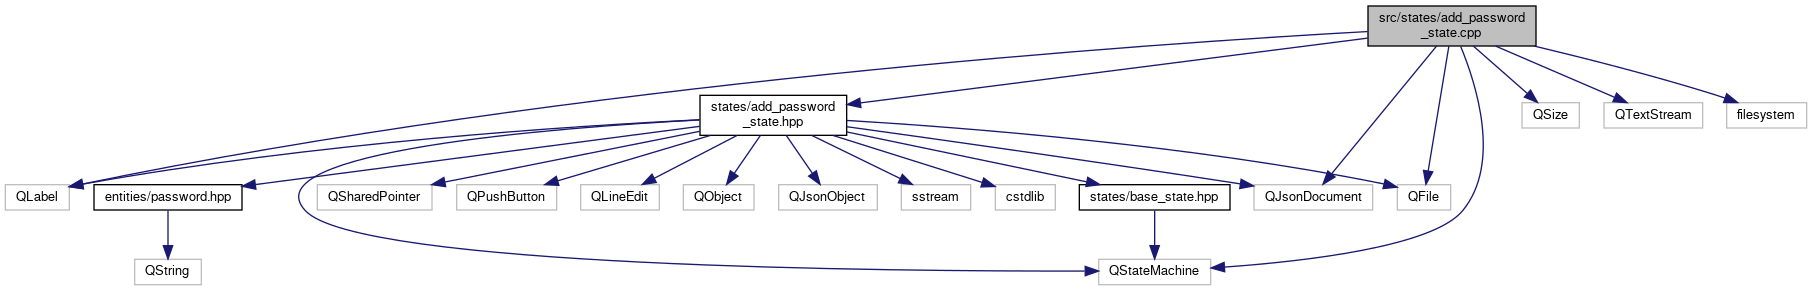
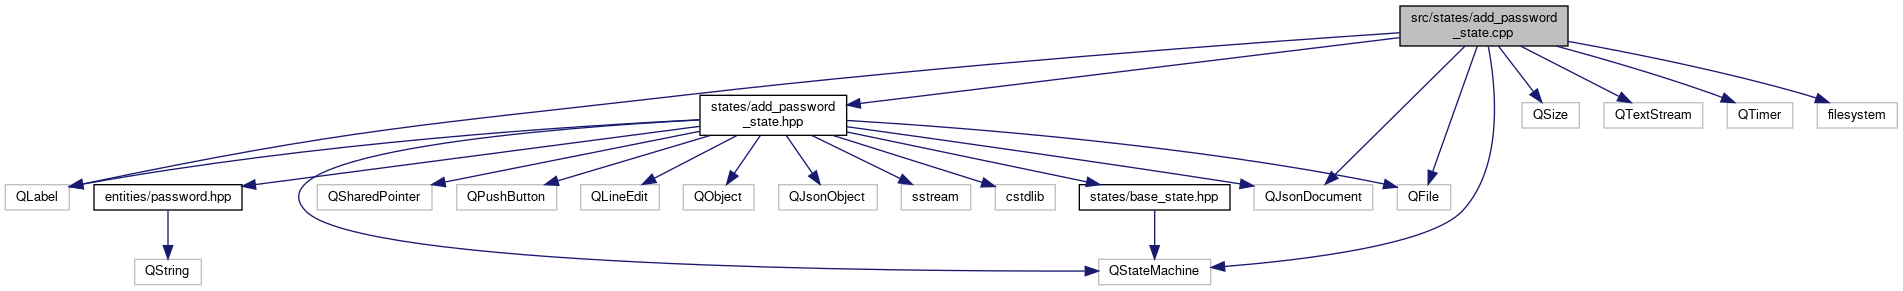
Update docs

diff --git a/docs/add__password__state_8hpp_source.html b/docs/add__password__state_8hpp_source.html
@@ -181,19 +181,19 @@ $(function() {
 <div class="ttc" id="aclasskmanager_1_1state_1_1AddPasswordState_html_a586e07e0faa24e6f28303532146c58ab"><div class="ttname"><a href="classkmanager_1_1state_1_1AddPasswordState.html#a586e07e0faa24e6f28303532146c58ab">kmanager::state::AddPasswordState::save_button</a></div><div class="ttdeci">QSharedPointer&lt; QPushButton &gt; save_button</div><div class="ttdef"><b>Definition:</b> add_password_state.hpp:78</div></div>
 <div class="ttc" id="aclasskmanager_1_1state_1_1AddPasswordState_html_a5a9a0308d6caafc6d6824210b32455c9"><div class="ttname"><a href="classkmanager_1_1state_1_1AddPasswordState.html#a5a9a0308d6caafc6d6824210b32455c9">kmanager::state::AddPasswordState::platform_website_textbox</a></div><div class="ttdeci">QSharedPointer&lt; QLineEdit &gt; platform_website_textbox</div><div class="ttdef"><b>Definition:</b> add_password_state.hpp:74</div></div>
 <div class="ttc" id="aclasskmanager_1_1state_1_1AddPasswordState_html_a633b4f72f0266cf92bf2dfff5ac1535c"><div class="ttname"><a href="classkmanager_1_1state_1_1AddPasswordState.html#a633b4f72f0266cf92bf2dfff5ac1535c">kmanager::state::AddPasswordState::password_textbox</a></div><div class="ttdeci">QSharedPointer&lt; QLineEdit &gt; password_textbox</div><div class="ttdef"><b>Definition:</b> add_password_state.hpp:76</div></div>
-<div class="ttc" id="aclasskmanager_1_1state_1_1AddPasswordState_html_a66f2fdfdef2c7abc9e8d6223c2f5490e"><div class="ttname"><a href="classkmanager_1_1state_1_1AddPasswordState.html#a66f2fdfdef2c7abc9e8d6223c2f5490e">kmanager::state::AddPasswordState::~AddPasswordState</a></div><div class="ttdeci">~AddPasswordState()</div><div class="ttdoc">Destruct a new AddPasswordState object.</div><div class="ttdef"><b>Definition:</b> add_password_state.cpp:57</div></div>
+<div class="ttc" id="aclasskmanager_1_1state_1_1AddPasswordState_html_a66f2fdfdef2c7abc9e8d6223c2f5490e"><div class="ttname"><a href="classkmanager_1_1state_1_1AddPasswordState.html#a66f2fdfdef2c7abc9e8d6223c2f5490e">kmanager::state::AddPasswordState::~AddPasswordState</a></div><div class="ttdeci">~AddPasswordState()</div><div class="ttdoc">Destruct a new AddPasswordState object.</div><div class="ttdef"><b>Definition:</b> add_password_state.cpp:58</div></div>
 <div class="ttc" id="aclasskmanager_1_1state_1_1AddPasswordState_html_a7428c16fbf06670ee344f4014e042d33"><div class="ttname"><a href="classkmanager_1_1state_1_1AddPasswordState.html#a7428c16fbf06670ee344f4014e042d33">kmanager::state::AddPasswordState::platform_website_label</a></div><div class="ttdeci">QSharedPointer&lt; QLabel &gt; platform_website_label</div><div class="ttdef"><b>Definition:</b> add_password_state.hpp:68</div></div>
 <div class="ttc" id="aclasskmanager_1_1state_1_1AddPasswordState_html_a9dd61d0704ed895e9033ae05d472b3db"><div class="ttname"><a href="classkmanager_1_1state_1_1AddPasswordState.html#a9dd61d0704ed895e9033ae05d472b3db">kmanager::state::AddPasswordState::note_label</a></div><div class="ttdeci">QSharedPointer&lt; QLabel &gt; note_label</div><div class="ttdef"><b>Definition:</b> add_password_state.hpp:71</div></div>
 <div class="ttc" id="aclasskmanager_1_1state_1_1AddPasswordState_html_ab1b1d854a8872ec0cdca0e1b8a5d10eb"><div class="ttname"><a href="classkmanager_1_1state_1_1AddPasswordState.html#ab1b1d854a8872ec0cdca0e1b8a5d10eb">kmanager::state::AddPasswordState::username_textbox</a></div><div class="ttdeci">QSharedPointer&lt; QLineEdit &gt; username_textbox</div><div class="ttdef"><b>Definition:</b> add_password_state.hpp:75</div></div>
 <div class="ttc" id="aclasskmanager_1_1state_1_1AddPasswordState_html_ab995f88b92a6ef41178885fabbeb73e2"><div class="ttname"><a href="classkmanager_1_1state_1_1AddPasswordState.html#ab995f88b92a6ef41178885fabbeb73e2">kmanager::state::AddPasswordState::host</a></div><div class="ttdeci">QWidget * host</div><div class="ttdef"><b>Definition:</b> add_password_state.hpp:81</div></div>
 <div class="ttc" id="aclasskmanager_1_1state_1_1AddPasswordState_html_ac081ce523faa8f5633b7c7b759634d23"><div class="ttname"><a href="classkmanager_1_1state_1_1AddPasswordState.html#ac081ce523faa8f5633b7c7b759634d23">kmanager::state::AddPasswordState::create_new_password_label</a></div><div class="ttdeci">QSharedPointer&lt; QLabel &gt; create_new_password_label</div><div class="ttdef"><b>Definition:</b> add_password_state.hpp:67</div></div>
-<div class="ttc" id="aclasskmanager_1_1state_1_1AddPasswordState_html_acd7d6f5cd91e40dd474e20bc1b836292"><div class="ttname"><a href="classkmanager_1_1state_1_1AddPasswordState.html#acd7d6f5cd91e40dd474e20bc1b836292">kmanager::state::AddPasswordState::AddPasswordState</a></div><div class="ttdeci">AddPasswordState(QWidget *host, QState *parent=nullptr)</div><div class="ttdoc">Construct a new AddPasswordState object.</div><div class="ttdef"><b>Definition:</b> add_password_state.cpp:39</div></div>
+<div class="ttc" id="aclasskmanager_1_1state_1_1AddPasswordState_html_acd7d6f5cd91e40dd474e20bc1b836292"><div class="ttname"><a href="classkmanager_1_1state_1_1AddPasswordState.html#acd7d6f5cd91e40dd474e20bc1b836292">kmanager::state::AddPasswordState::AddPasswordState</a></div><div class="ttdeci">AddPasswordState(QWidget *host, QState *parent=nullptr)</div><div class="ttdoc">Construct a new AddPasswordState object.</div><div class="ttdef"><b>Definition:</b> add_password_state.cpp:40</div></div>
 <div class="ttc" id="aclasskmanager_1_1state_1_1AddPasswordState_html_ad25bcbccc238870c010ac4390d8cedc3"><div class="ttname"><a href="classkmanager_1_1state_1_1AddPasswordState.html#ad25bcbccc238870c010ac4390d8cedc3">kmanager::state::AddPasswordState::error_label</a></div><div class="ttdeci">QSharedPointer&lt; QLabel &gt; error_label</div><div class="ttdef"><b>Definition:</b> add_password_state.hpp:72</div></div>
 <div class="ttc" id="aclasskmanager_1_1state_1_1AddPasswordState_html_ae87866915282ed6a4d830a19d738885b"><div class="ttname"><a href="classkmanager_1_1state_1_1AddPasswordState.html#ae87866915282ed6a4d830a19d738885b">kmanager::state::AddPasswordState::password_label</a></div><div class="ttdeci">QSharedPointer&lt; QLabel &gt; password_label</div><div class="ttdef"><b>Definition:</b> add_password_state.hpp:70</div></div>
 <div class="ttc" id="aclasskmanager_1_1state_1_1AddPasswordState_html_aeb003d62c5ef4344a088d42979d45489"><div class="ttname"><a href="classkmanager_1_1state_1_1AddPasswordState.html#aeb003d62c5ef4344a088d42979d45489">kmanager::state::AddPasswordState::note_textbox</a></div><div class="ttdeci">QSharedPointer&lt; QLineEdit &gt; note_textbox</div><div class="ttdef"><b>Definition:</b> add_password_state.hpp:77</div></div>
 <div class="ttc" id="aclasskmanager_1_1state_1_1AddPasswordState_html_afa1a061f88220a141be71ab139314b3a"><div class="ttname"><a href="classkmanager_1_1state_1_1AddPasswordState.html#afa1a061f88220a141be71ab139314b3a">kmanager::state::AddPasswordState::create_new_password_textbox</a></div><div class="ttdeci">QSharedPointer&lt; QLineEdit &gt; create_new_password_textbox</div><div class="ttdef"><b>Definition:</b> add_password_state.hpp:73</div></div>
 <div class="ttc" id="aclasskmanager_1_1state_1_1BaseState_html"><div class="ttname"><a href="classkmanager_1_1state_1_1BaseState.html">kmanager::state::BaseState</a></div><div class="ttdoc">Class used to construct the base state of the app.</div><div class="ttdef"><b>Definition:</b> base_state.hpp:34</div></div>
-<div class="ttc" id="anamespacekmanager_1_1state_html"><div class="ttname"><a href="namespacekmanager_1_1state.html">kmanager::state</a></div><div class="ttdef"><b>Definition:</b> add_password_state.cpp:29</div></div>
+<div class="ttc" id="anamespacekmanager_1_1state_html"><div class="ttname"><a href="namespacekmanager_1_1state.html">kmanager::state</a></div><div class="ttdef"><b>Definition:</b> add_password_state.cpp:30</div></div>
 <div class="ttc" id="apassword_8hpp_html"><div class="ttname"><a href="password_8hpp.html">password.hpp</a></div></div>
 </div><!-- fragment --></div><!-- contents -->
 <!-- start footer part -->

diff --git a/docs/menu__state_8hpp_source.html b/docs/menu__state_8hpp_source.html
@@ -157,7 +157,7 @@ $(function() {
 <div class="ttc" id="aclasskmanager_1_1state_1_1MenuState_html_ac151ed1bc44f165704d43e9c27b15fbf"><div class="ttname"><a href="classkmanager_1_1state_1_1MenuState.html#ac151ed1bc44f165704d43e9c27b15fbf">kmanager::state::MenuState::version</a></div><div class="ttdeci">QSharedPointer&lt; QLabel &gt; version</div><div class="ttdef"><b>Definition:</b> menu_state.hpp:57</div></div>
 <div class="ttc" id="aclasskmanager_1_1state_1_1MenuState_html_ac1540c1d34c4f1da8fba053e24da3a43"><div class="ttname"><a href="classkmanager_1_1state_1_1MenuState.html#ac1540c1d34c4f1da8fba053e24da3a43">kmanager::state::MenuState::options_button</a></div><div class="ttdeci">QSharedPointer&lt; QPushButton &gt; options_button</div><div class="ttdef"><b>Definition:</b> menu_state.hpp:55</div></div>
 <div class="ttc" id="aclasskmanager_1_1state_1_1MenuState_html_ac79c48cd901994aad40a684dd23fae11"><div class="ttname"><a href="classkmanager_1_1state_1_1MenuState.html#ac79c48cd901994aad40a684dd23fae11">kmanager::state::MenuState::p_manager_button</a></div><div class="ttdeci">QSharedPointer&lt; QPushButton &gt; p_manager_button</div><div class="ttdef"><b>Definition:</b> menu_state.hpp:52</div></div>
-<div class="ttc" id="anamespacekmanager_1_1state_html"><div class="ttname"><a href="namespacekmanager_1_1state.html">kmanager::state</a></div><div class="ttdef"><b>Definition:</b> add_password_state.cpp:29</div></div>
+<div class="ttc" id="anamespacekmanager_1_1state_html"><div class="ttname"><a href="namespacekmanager_1_1state.html">kmanager::state</a></div><div class="ttdef"><b>Definition:</b> add_password_state.cpp:30</div></div>
 </div><!-- fragment --></div><!-- contents -->
 <!-- start footer part -->
 <hr class="footer"/><address class="footer"><small>

diff --git a/docs/base__state_8hpp_source.html b/docs/base__state_8hpp_source.html
@@ -116,7 +116,7 @@ $(function() {
 <div class="ttc" id="aclasskmanager_1_1state_1_1BaseState_html_a76600c1525c5bcc3289945fc022bd6af"><div class="ttname"><a href="classkmanager_1_1state_1_1BaseState.html#a76600c1525c5bcc3289945fc022bd6af">kmanager::state::BaseState::addWidgets</a></div><div class="ttdeci">virtual void addWidgets()=0</div></div>
 <div class="ttc" id="aclasskmanager_1_1state_1_1BaseState_html_a96981741385b1a8ba6c5538df52ad343"><div class="ttname"><a href="classkmanager_1_1state_1_1BaseState.html#a96981741385b1a8ba6c5538df52ad343">kmanager::state::BaseState::~BaseState</a></div><div class="ttdeci">virtual ~BaseState()</div><div class="ttdoc">Destruct a new BaseState object.</div><div class="ttdef"><b>Definition:</b> base_state.cpp:43</div></div>
 <div class="ttc" id="aclasskmanager_1_1state_1_1BaseState_html_ac2cc6c321c133586de2af9c6ff35feae"><div class="ttname"><a href="classkmanager_1_1state_1_1BaseState.html#ac2cc6c321c133586de2af9c6ff35feae">kmanager::state::BaseState::BaseState</a></div><div class="ttdeci">BaseState(QState *parent=nullptr)</div><div class="ttdoc">Construct a new BaseState object.</div><div class="ttdef"><b>Definition:</b> base_state.cpp:31</div></div>
-<div class="ttc" id="anamespacekmanager_1_1state_html"><div class="ttname"><a href="namespacekmanager_1_1state.html">kmanager::state</a></div><div class="ttdef"><b>Definition:</b> add_password_state.cpp:29</div></div>
+<div class="ttc" id="anamespacekmanager_1_1state_html"><div class="ttname"><a href="namespacekmanager_1_1state.html">kmanager::state</a></div><div class="ttdef"><b>Definition:</b> add_password_state.cpp:30</div></div>
 </div><!-- fragment --></div><!-- contents -->
 <!-- start footer part -->
 <hr class="footer"/><address class="footer"><small>

diff --git a/docs/add__password__state_8cpp.html b/docs/add__password__state_8cpp.html
@@ -80,13 +80,14 @@ $(function() {
 <code>#include &lt;QJsonDocument&gt;</code><br />
 <code>#include &lt;QFile&gt;</code><br />
 <code>#include &lt;QTextStream&gt;</code><br />
+<code>#include &lt;QTimer&gt;</code><br />
 <code>#include &lt;filesystem&gt;</code><br />
 </div><div class="textblock"><div class="dynheader">
 Include dependency graph for add_password_state.cpp:</div>
 <div class="dyncontent">
 <div class="center"><img src="add__password__state_8cpp__incl.png" border="0" usemap="#asrc_2states_2add__password__state_8cpp" alt=""/></div>
 <map name="asrc_2states_2add__password__state_8cpp" id="asrc_2states_2add__password__state_8cpp">
-<area shape="rect" title=" " alt="" coords="1368,5,1536,47"/>
+<area shape="rect" title=" " alt="" coords="1400,5,1568,47"/>
 <area shape="rect" href="add__password__state_8hpp.html" title=" " alt="" coords="700,95,847,136"/>
 <area shape="rect" title=" " alt="" coords="1099,259,1211,285"/>
 <area shape="rect" title=" " alt="" coords="5,184,69,211"/>
@@ -94,7 +95,8 @@ Include dependency graph for add_password_state.cpp:</div>
 <area shape="rect" title=" " alt="" coords="1397,184,1451,211"/>
 <area shape="rect" title=" " alt="" coords="1522,102,1579,129"/>
 <area shape="rect" title=" " alt="" coords="1604,102,1703,129"/>
-<area shape="rect" title=" " alt="" coords="1727,102,1807,129"/>
+<area shape="rect" title=" " alt="" coords="1727,102,1793,129"/>
+<area shape="rect" title=" " alt="" coords="1817,102,1897,129"/>
 <area shape="rect" href="base__state_8hpp.html" title=" " alt="" coords="1079,184,1230,211"/>
 <area shape="rect" href="password_8hpp.html" title=" " alt="" coords="94,184,242,211"/>
 <area shape="rect" title=" " alt="" coords="317,184,432,211"/>

diff --git a/docs/password__manager__state_8hpp_source.html b/docs/password__manager__state_8hpp_source.html
@@ -177,7 +177,7 @@ $(function() {
 <div class="ttc" id="aclasskmanager_1_1state_1_1PasswordManagerState_html_aec5194b8010bdb80055ad0d5be57b7af"><div class="ttname"><a href="classkmanager_1_1state_1_1PasswordManagerState.html#aec5194b8010bdb80055ad0d5be57b7af">kmanager::state::PasswordManagerState::find_button</a></div><div class="ttdeci">QSharedPointer&lt; QPushButton &gt; find_button</div><div class="ttdef"><b>Definition:</b> password_manager_state.hpp:65</div></div>
 <div class="ttc" id="aclasskmanager_1_1state_1_1PasswordManagerState_html_aec532a88e773b944e17ba5ed890095b2"><div class="ttname"><a href="classkmanager_1_1state_1_1PasswordManagerState.html#aec532a88e773b944e17ba5ed890095b2">kmanager::state::PasswordManagerState::password_note</a></div><div class="ttdeci">QSharedPointer&lt; QLabel &gt; password_note</div><div class="ttdef"><b>Definition:</b> password_manager_state.hpp:64</div></div>
 <div class="ttc" id="amenu__state_8hpp_html"><div class="ttname"><a href="menu__state_8hpp.html">menu_state.hpp</a></div></div>
-<div class="ttc" id="anamespacekmanager_1_1state_html"><div class="ttname"><a href="namespacekmanager_1_1state.html">kmanager::state</a></div><div class="ttdef"><b>Definition:</b> add_password_state.cpp:29</div></div>
+<div class="ttc" id="anamespacekmanager_1_1state_html"><div class="ttname"><a href="namespacekmanager_1_1state.html">kmanager::state</a></div><div class="ttdef"><b>Definition:</b> add_password_state.cpp:30</div></div>
 </div><!-- fragment --></div><!-- contents -->
 <!-- start footer part -->
 <hr class="footer"/><address class="footer"><small>
